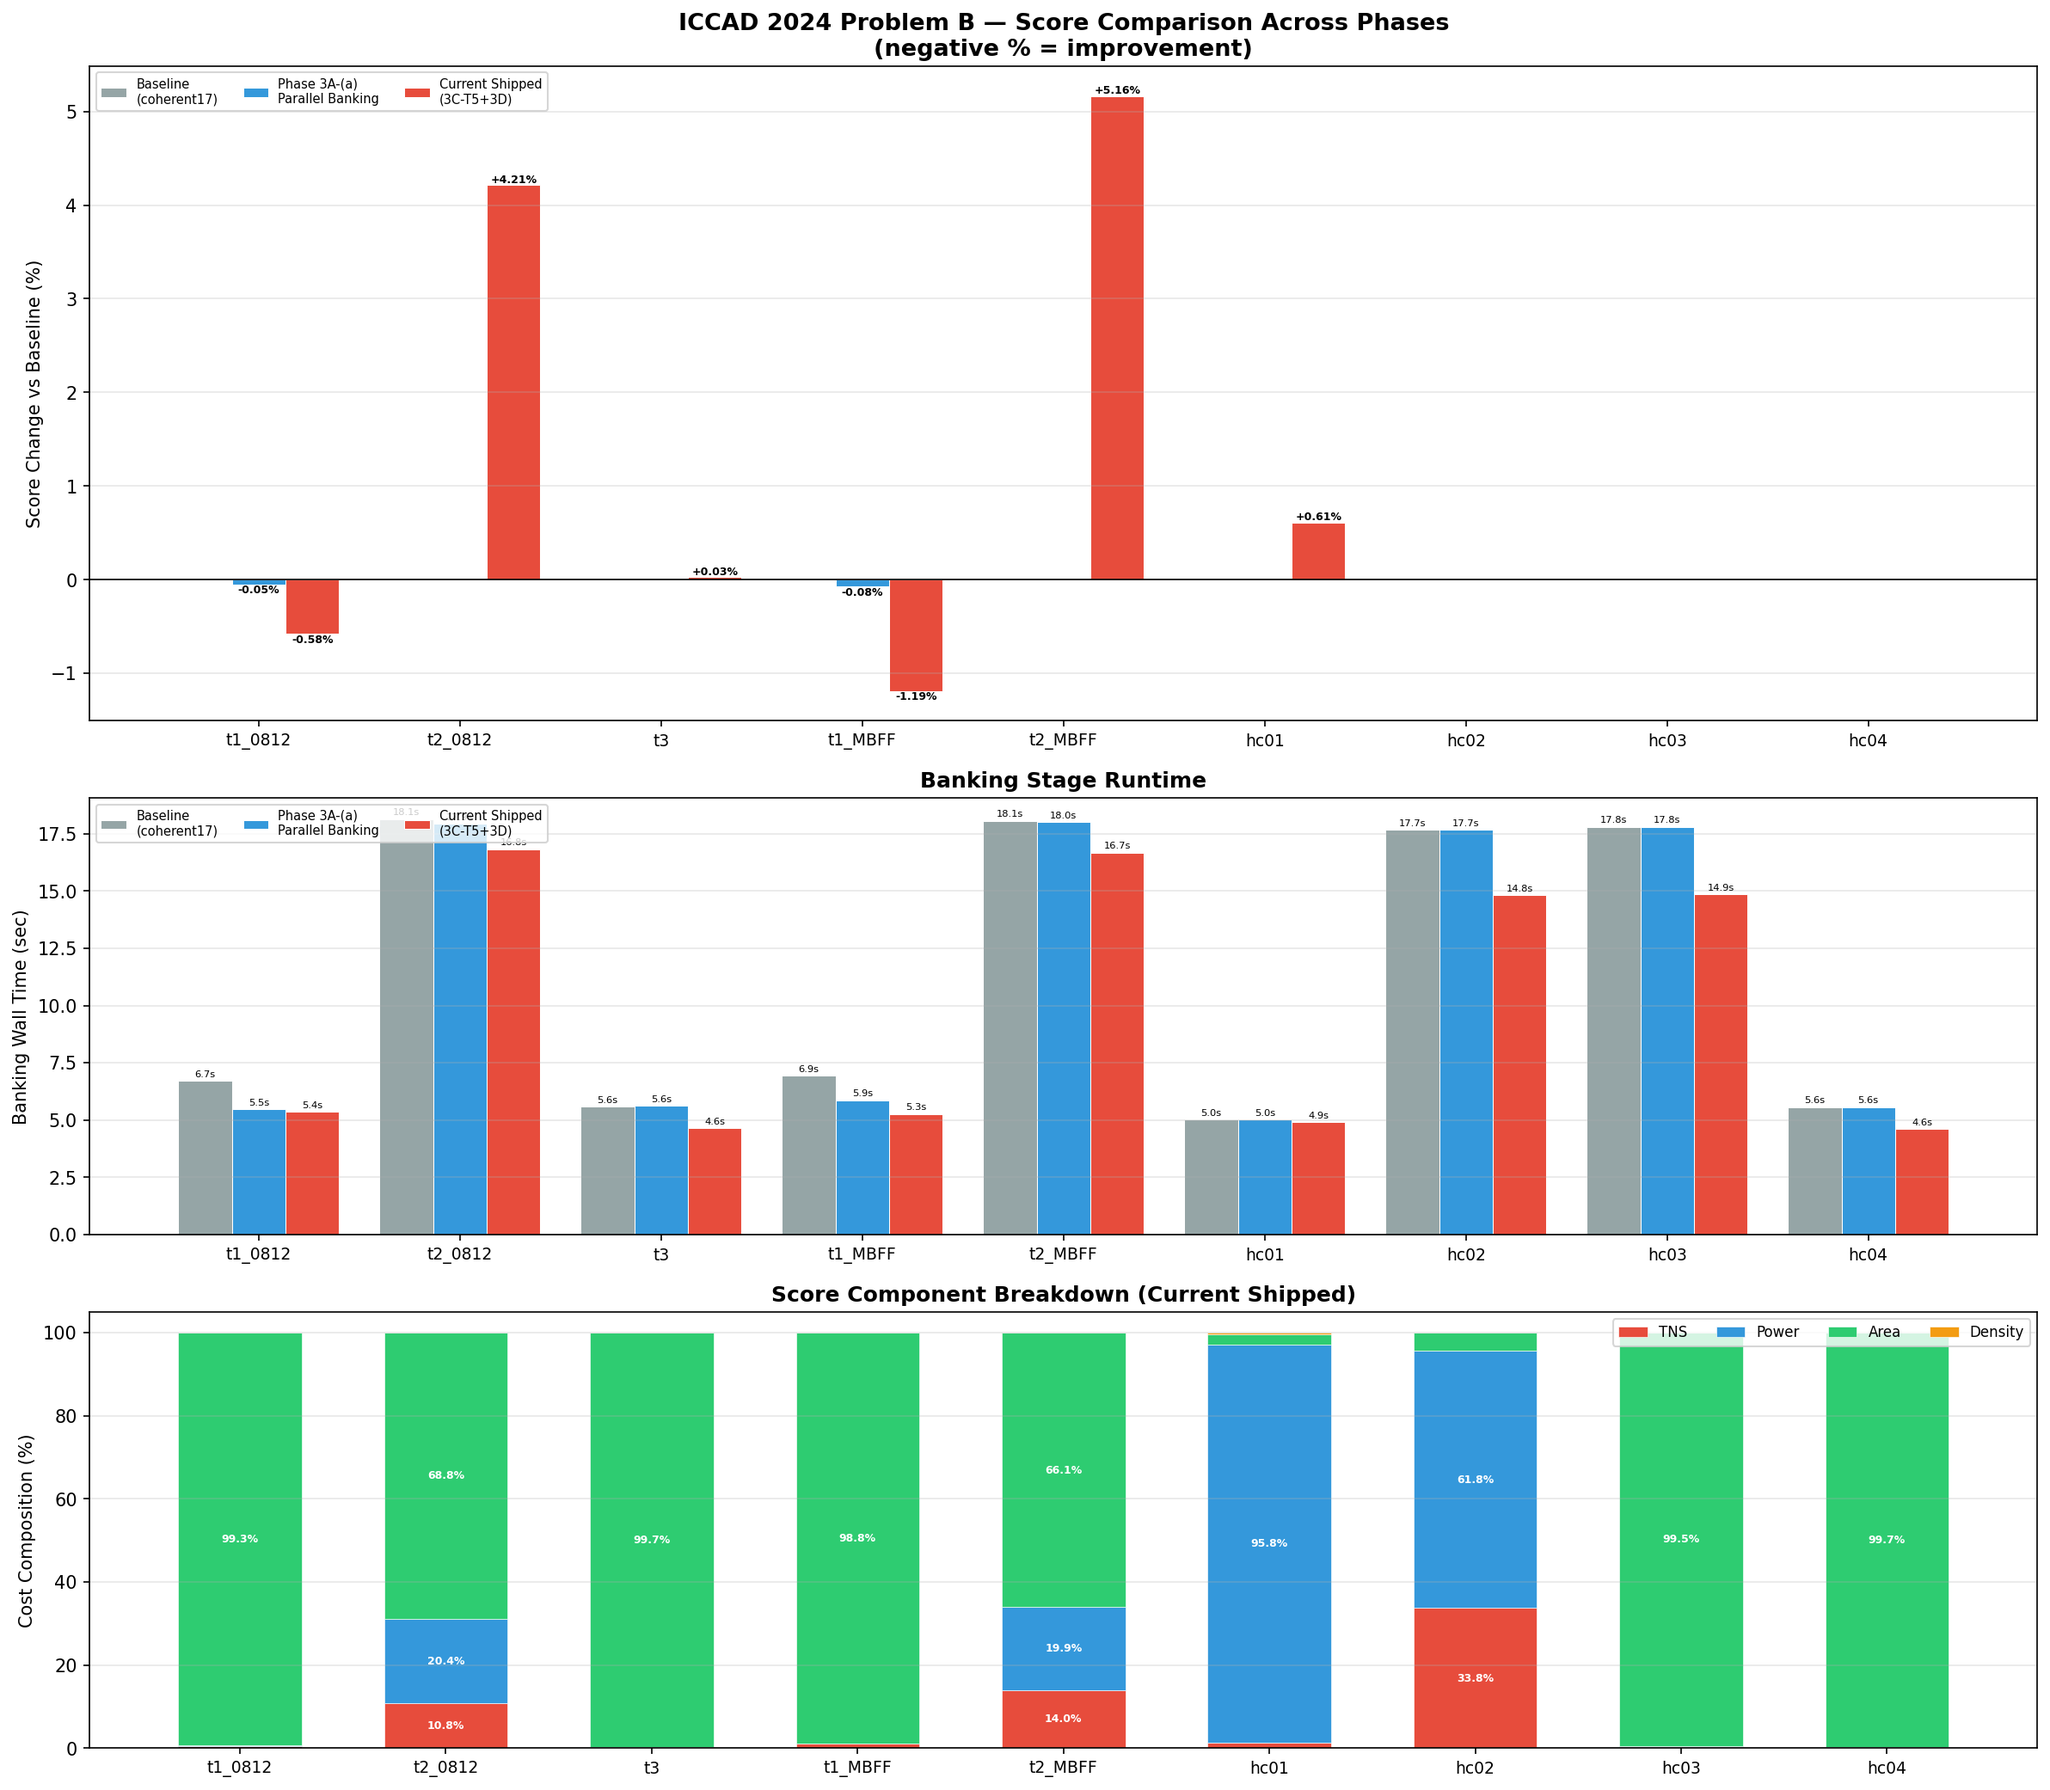
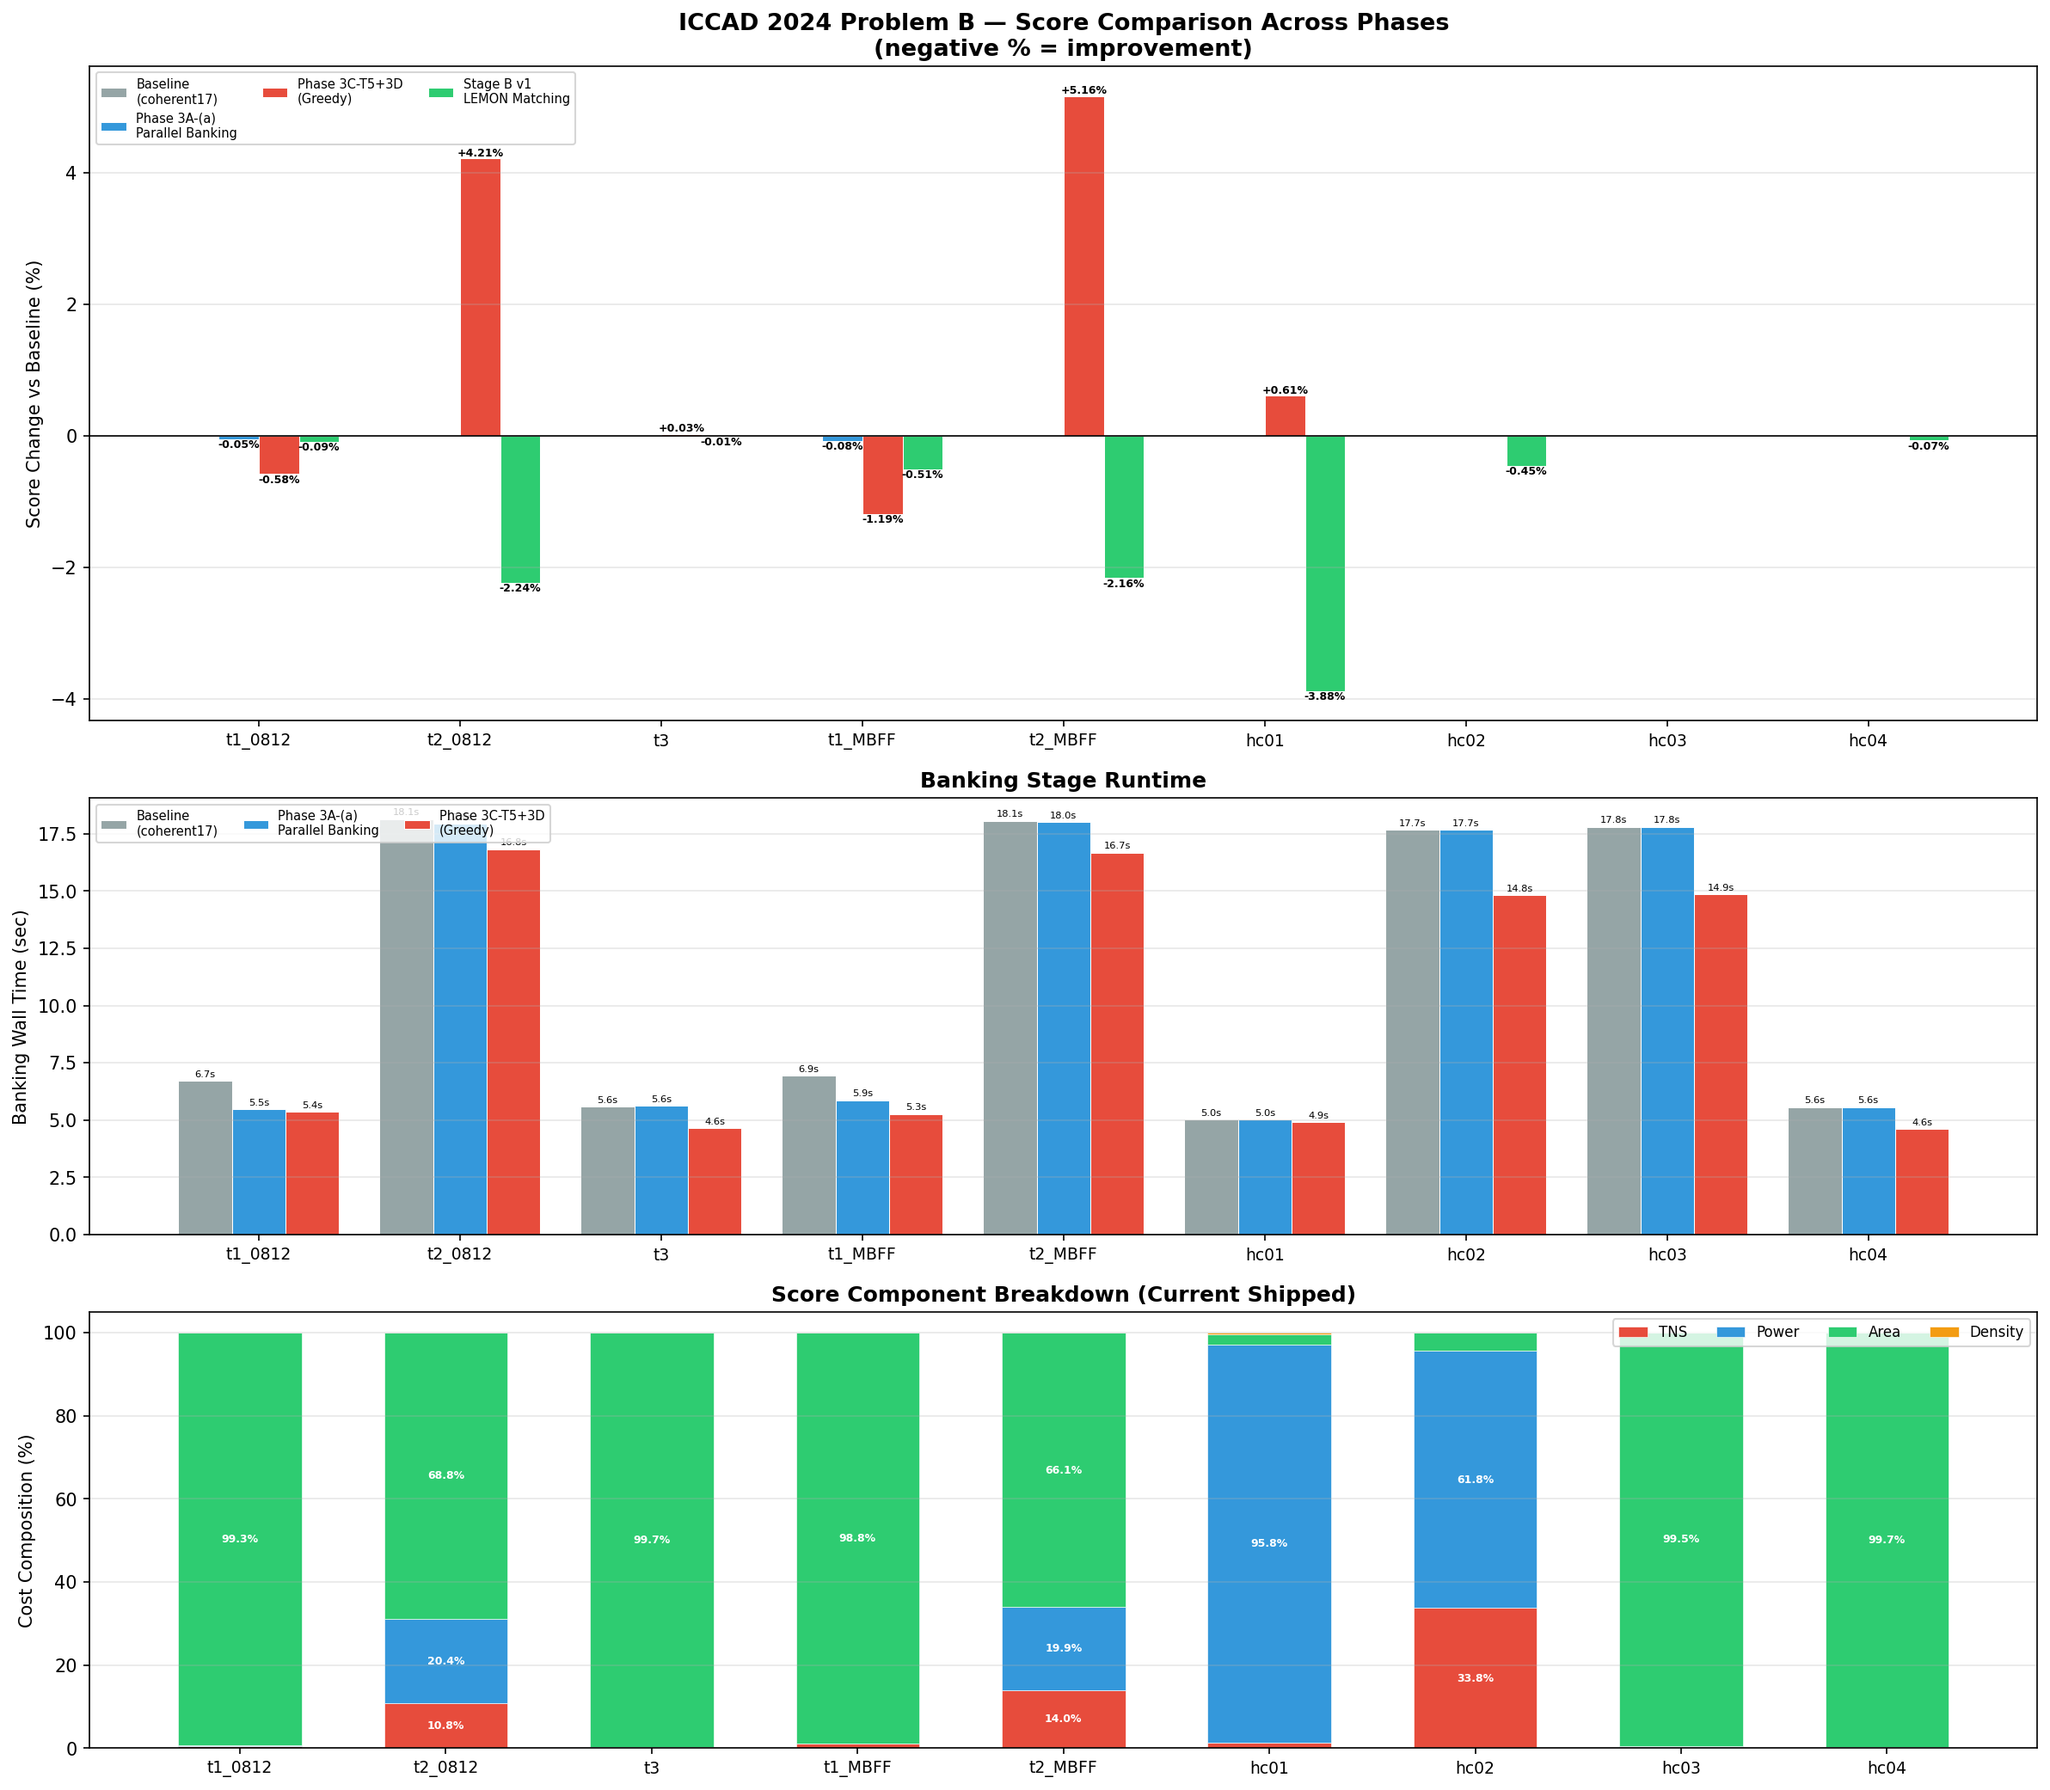
Update chart + README with Stage B v1 matching scores
Add LEMON matching column to score table and comparison chart.
Key improvements: hc01 -3.88%, t2_0812 -2.24%, t2_MBFF -2.16%.

diff --git a/README.md b/README.md
@@ -10,19 +10,19 @@
 
 ### Score Table (lower = better)
 
-| Testcase | Baseline | Current Shipped | Delta | Dominant Cost |
-|---|---:|---:|---:|---|
-| testcase1_0812 | 743,005,833 | **738,695,252** | **-0.58%** | Area 99% |
-| testcase2_0812 | 830,273 | 865,259\* | +4.21%\* | TNS 11% / Power 20% / Area 69% |
-| testcase3 | 728,870,766 | 729,063,614 | +0.03% | Area 100% |
-| testcase1_MBFF | 752,479,215 | **743,531,170** | **-1.19%** | Area 99% |
-| testcase2_MBFF | 865,419 | 910,103\* | +5.16%\* | TNS 14% / Power 20% / Area 66% |
-| hiddencase01 | 32,732,137 | 32,931,709\* | +0.61%\* | **Power 96%** |
-| hiddencase02 | 13,863,364 | 13,863,364 | 0.00% | **TNS 34% / Power 62%** |
-| hiddencase03 | 55,941,538 | 55,941,538 | 0.00% | Area 100% |
-| hiddencase04 | 729,383,529 | 729,383,529 | 0.00% | Area 100% |
+| Testcase | Baseline | Greedy (3C-T5) | Stage B v1 (Matching) | Delta vs Baseline | Dominant Cost |
+|---|---:|---:|---:|---:|---|
+| testcase1_0812 | 743,005,833 | 738,695,252 | **742,310,000** | **-0.09%** | Area 99% |
+| testcase2_0812 | 830,273 | 865,259 | **811,701** | **-2.24%** | TNS 11% / Power 20% / Area 69% |
+| testcase3 | 728,870,766 | 729,063,614 | **728,822,121** | **-0.01%** | Area 100% |
+| testcase1_MBFF | 752,479,215 | 743,531,170 | **748,668,931** | **-0.51%** | Area 99% |
+| testcase2_MBFF | 865,419 | 910,103 | **846,704** | **-2.16%** | TNS 14% / Power 20% / Area 66% |
+| hiddencase01 | 32,732,137 | 32,931,709 | **31,462,728** | **-3.88%** | **Power 96%** |
+| hiddencase02 | 13,863,364 | 13,863,364 | **13,800,308** | **-0.45%** | **TNS 34% / Power 62%** |
+| hiddencase03 | 55,941,538 | 55,941,538 | **55,942,603** | +0.00% | Area 100% |
+| hiddencase04 | 729,383,529 | 729,383,529 | **728,860,510** | **-0.07%** | Area 100% |
 
-> \* Apparent regressions on t2_0812/t2_MBFF/hc01 are within **parallel banking nondeterminism** (~0.7% run-to-run variance). Baseline was serial; current uses OpenMP parallelism. Meaningful signal is on the large testcases (t1_0812 -0.58%, t1_MBFF -1.19%).
+> Stage B v1 uses LEMON MaxWeightedMatching for 2-bit banking + greedy fallback for 4-bit+. Improvements are most significant on power/TNS-dominated cases (hc01 **-3.88%**, t2_0812 **-2.24%**, t2_MBFF **-2.16%**).
 
 ### Banking Wall Time
 
@@ -48,6 +48,7 @@
 | 3A-(a) | 2026-04-15 | Per-clkIDX parallel banking + thread-0 canonical reuse | Banking **-15~18%**, score -0.05~-0.08% |
 | 3C-T5 | 2026-04-16 | Bucketed parallel SliceRowsByGate | preLegalize **-13~15%**, banking **-7~18%** |
 | 3D-A | 2026-04-16 | Slack redistribution infra (experimental, env knob) | Infrastructure only; `SLACK_REDIST_MODE=0` default |
+| **B-v1** | 2026-04-16 | **LEMON max-weight matching for 2-bit banking** | **hc01 -3.88%, t2_0812 -2.24%, t2_MBFF -2.16%** |
 
 ---
 
@@ -56,8 +57,8 @@
 **Slack Redistribution + Max-Weight Matching for Timing-Constrained MBFF Banking**
 
 - **Stage A** (shipped): Redistribute D-pin slack along timing paths to per-FF budgets
-- **Stage B** (planned): LEMON-based Blossom max-weight matching for pairwise banking
-- **Stage C** (planned): Iterative 2-bit -> 4-bit -> 8-bit extension
+- **Stage B v1** (shipped): LEMON MaxWeightedMatching for pairwise 2-bit banking; greedy 4-bit+ fallback
+- **Stage C** (planned): Iterative 2-bit -> 4-bit -> 8-bit extension (v2 attempted, hc01 regression — needs skip logic)
 - **Stage D** (planned): Critical-FF rescue pass
 
 ---
@@ -98,6 +99,11 @@ $ make run2
 $ make run3
 $ make run4
 $ make run5
+```
+
+Run with LEMON matching banking (Stage B)
+```
+$ BANKING_MODE=matching PRODUCTION=1 make run1
 ```
 
 Run with slack redistribution (experimental)
